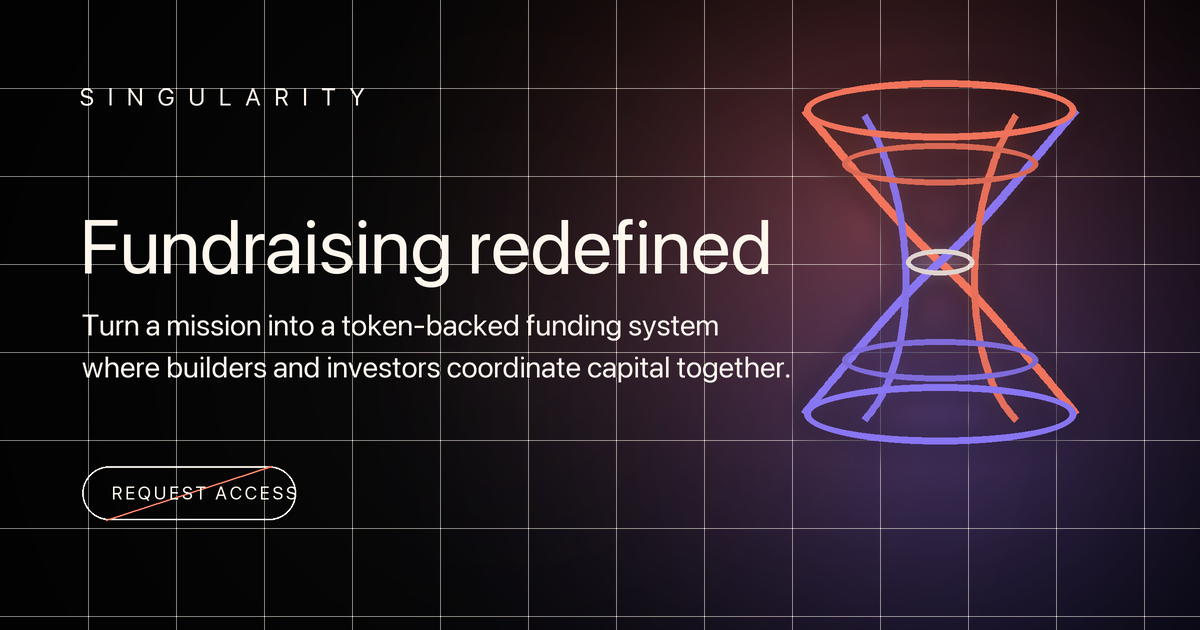
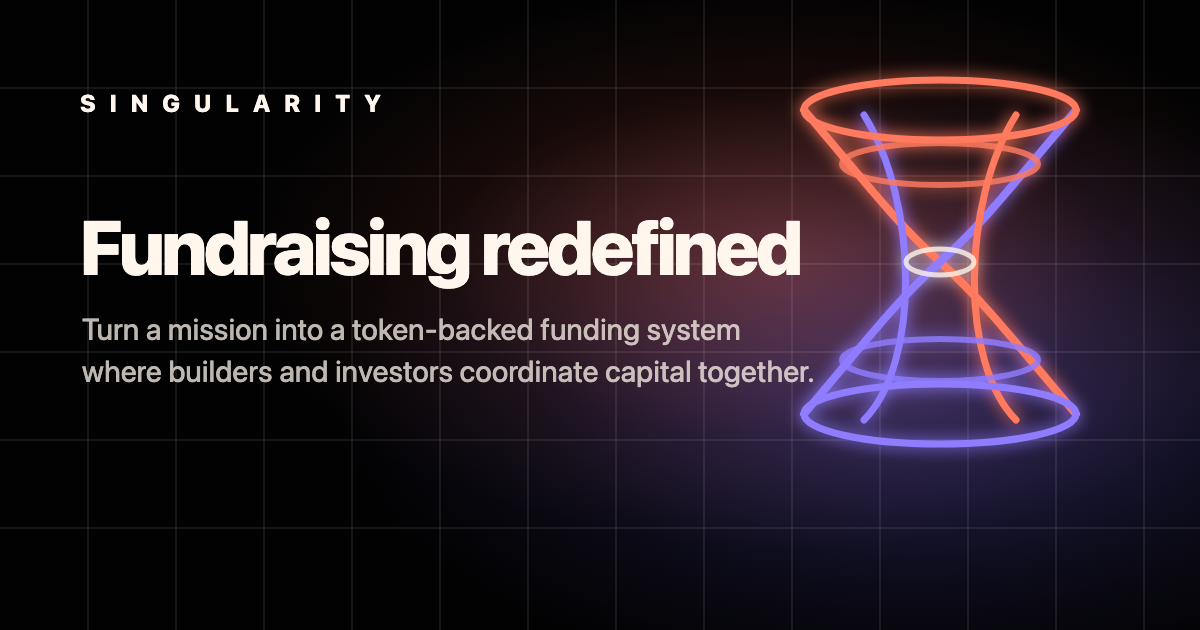
Add styles for dark mode and loader animation in index.html; update og-image assets; enhance chapter-card styles in styles.css

diff --git a/index.html b/index.html
@@ -9,6 +9,45 @@
       content="Singularity turns a mission into a token-backed funding system where builders and investors coordinate capital together."
     />
     <meta name="theme-color" content="#020203" />
+    <style>
+      :root {
+        color-scheme: dark;
+        background: #020203;
+      }
+
+      html,
+      body,
+      #root {
+        min-height: 100vh;
+        margin: 0;
+        background:
+          radial-gradient(circle at 50% 48%, rgba(255, 106, 74, 0.11), transparent 18rem),
+          radial-gradient(circle at 50% 52%, rgba(118, 108, 255, 0.09), transparent 24rem),
+          #020203;
+      }
+
+      #root:empty::before {
+        position: fixed;
+        top: 50%;
+        left: 50%;
+        width: 2.75rem;
+        height: 2.75rem;
+        border-radius: 999px;
+        content: "";
+        background: conic-gradient(from 180deg, transparent 0 32%, #ff6a4a 48%, #766cff 78%, transparent 100%);
+        filter: drop-shadow(0 0 18px rgba(255, 106, 74, 0.46)) drop-shadow(0 0 24px rgba(118, 108, 255, 0.42));
+        -webkit-mask: radial-gradient(farthest-side, transparent calc(100% - 4px), #000 calc(100% - 3px));
+        mask: radial-gradient(farthest-side, transparent calc(100% - 4px), #000 calc(100% - 3px));
+        transform: translate(-50%, -50%);
+        animation: initial-loader-spin 900ms linear infinite;
+      }
+
+      @keyframes initial-loader-spin {
+        to {
+          transform: translate(-50%, -50%) rotate(1turn);
+        }
+      }
+    </style>
     <link rel="icon" type="image/svg+xml" href="/favicon.svg" />
     <link rel="apple-touch-icon" href="/apple-touch-icon.png" />
     <meta property="og:type" content="website" />

diff --git a/src/styles.css b/src/styles.css
@@ -575,6 +575,7 @@ canvas {
 
 @media (max-width: 920px) {
   .hero {
+    height: 100svh;
     min-height: 100svh;
   }
 
@@ -683,6 +684,25 @@ canvas {
 
   .chapter-card {
     width: min(100%, 35rem);
+    filter: none;
+    transform: translateY(-50%);
+    transition: opacity 180ms cubic-bezier(0.16, 1, 0.3, 1);
+    will-change: opacity;
+    -webkit-font-smoothing: antialiased;
+    backface-visibility: hidden;
+  }
+
+  .page:not(.loaded) .chapter-card {
+    filter: none;
+    transform: translateY(-50%);
+  }
+
+  .chapter-card[aria-hidden="true"] {
+    opacity: 0;
+  }
+
+  .chapter-card:not([aria-hidden="true"]) {
+    opacity: 1;
   }
 
   .chapter-card h2 {
